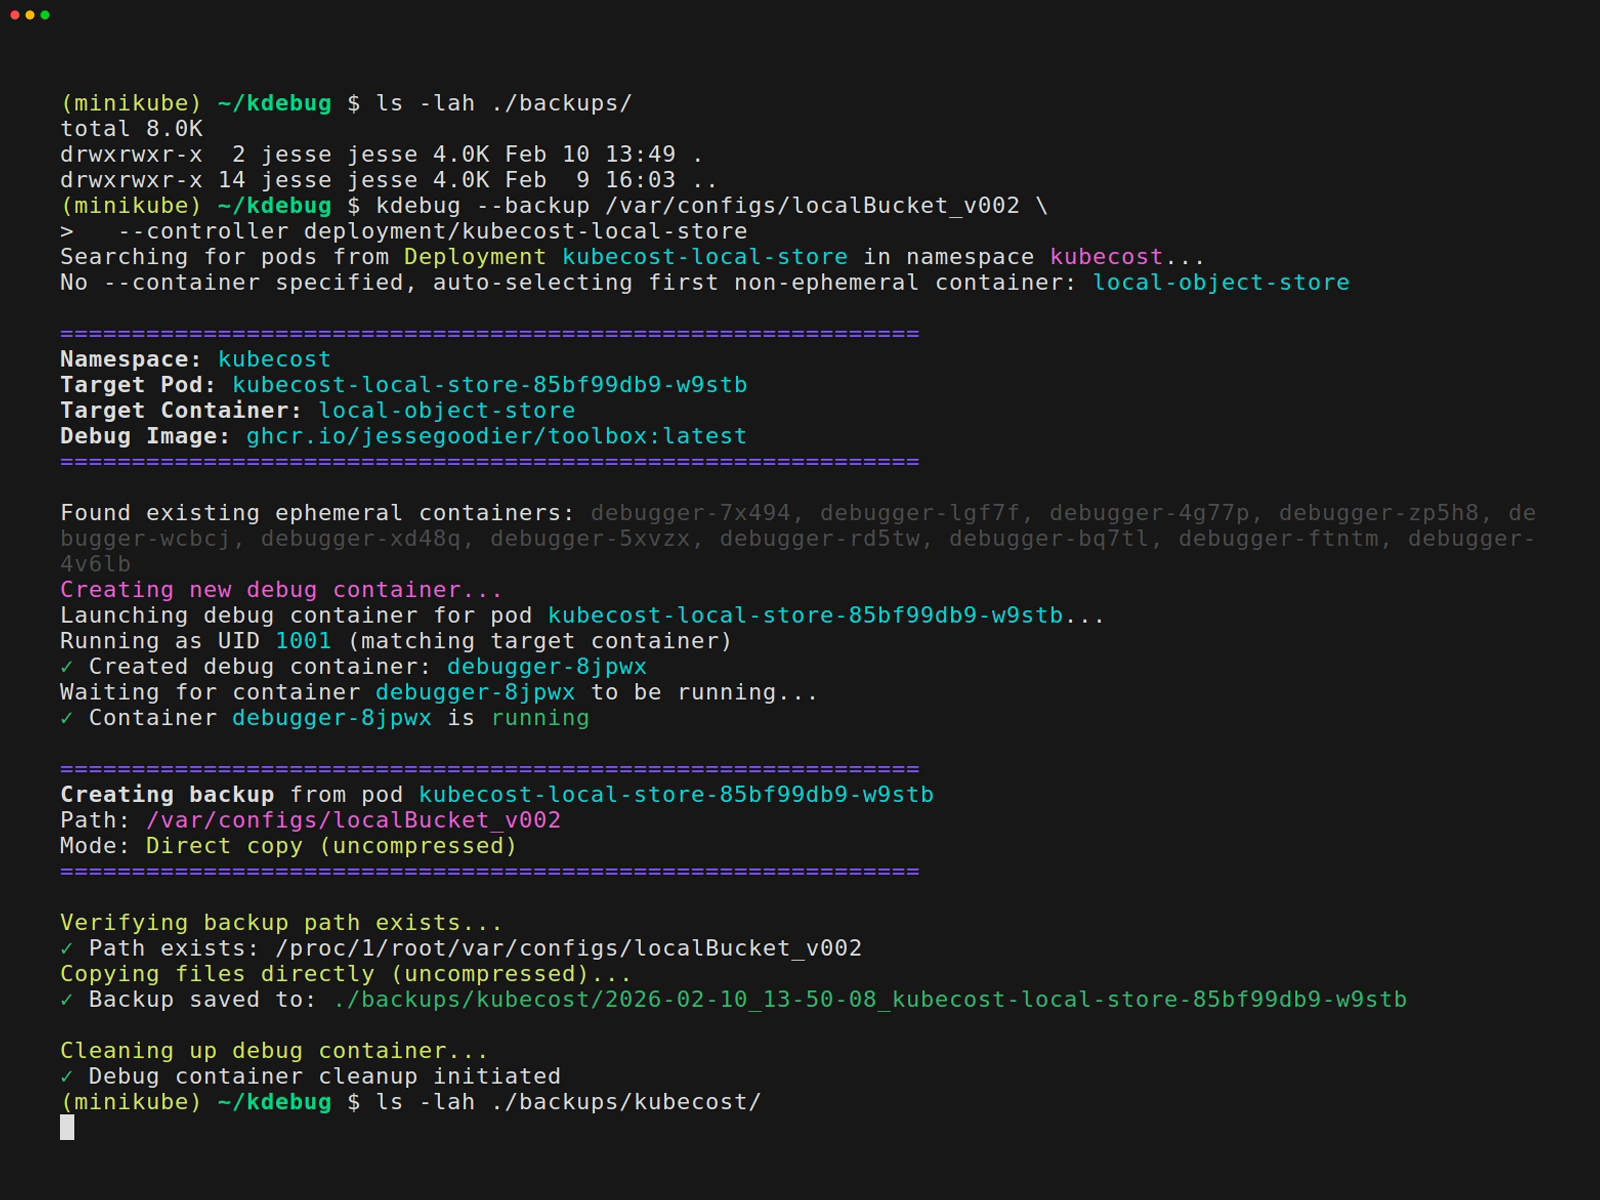
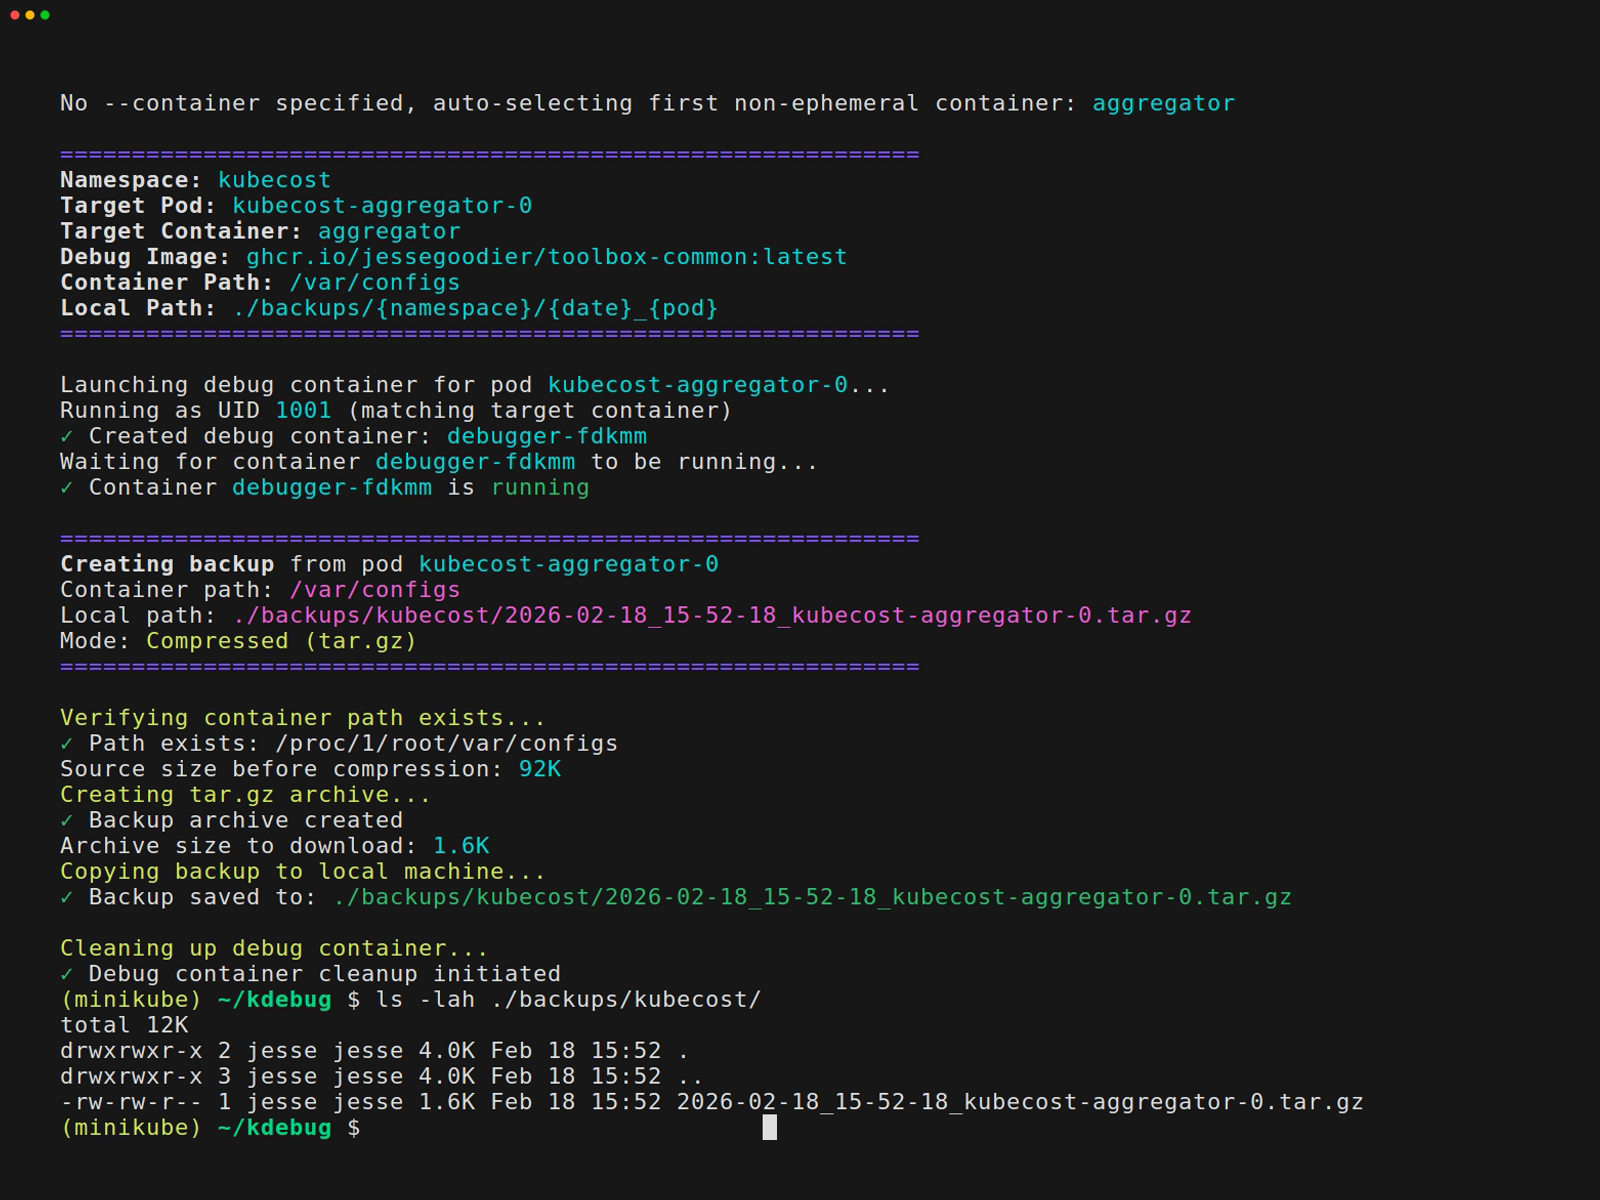
fix args

diff --git a/src/kdebug/cli.py b/src/kdebug/cli.py
@@ -1322,6 +1322,38 @@ Usage:
         "--cd-into", metavar="DIR", default=None, help=argparse.SUPPRESS
     )
 
+    # Shared parent parser so subcommands accept target/options args too.
+    # Without this, `kdebug backup --pod foo` fails because argparse routes
+    # args after the subcommand name to the subparser, which doesn't know
+    # about --pod/--controller/etc.
+    _shared = argparse.ArgumentParser(add_help=False, formatter_class=KdebugHelpFormatter)
+    _shared_target = _shared.add_argument_group("Target Selection")
+    _shared_target.add_argument("--pod", metavar="NAME", help="Pod name for direct selection")
+    _shared_target.add_argument(
+        "--controller",
+        type=parse_controller_arg,
+        metavar="TYPE/NAME",
+        help="Controller as TYPE/NAME (e.g. sts/myapp, deploy/frontend)",
+    )
+    _shared_opts = _shared.add_argument_group("Options")
+    _shared_opts.add_argument(
+        "-n", "--namespace", metavar="NS", help="Kubernetes namespace (default: current context)"
+    )
+    _shared_opts.add_argument("--context", metavar="NAME", help="Kubernetes context to use")
+    _shared_opts.add_argument("--kubeconfig", metavar="PATH", help="Path to kubeconfig file")
+    _shared_opts.add_argument(
+        "--container", metavar="NAME", help="Target container for process namespace sharing"
+    )
+    _shared_opts.add_argument(
+        "--debug-image",
+        metavar="IMAGE",
+        default=None,
+        help="Debug image (default: ghcr.io/jessegoodier/toolbox-common:latest)",
+    )
+    _shared_opts.add_argument(
+        "--as-root", action="store_true", help="Run debug container as root (UID 0)"
+    )
+
     # Subcommands
     subparsers = parser.add_subparsers(dest="command")
 
@@ -1330,6 +1362,7 @@ Usage:
         "debug",
         help="Interactive debug session (default)",
         formatter_class=KdebugHelpFormatter,
+        parents=[_shared],
     )
     debug_parser.add_argument(
         "--cmd",
@@ -1349,6 +1382,7 @@ Usage:
         "backup",
         help="Backup files from pod",
         formatter_class=KdebugHelpFormatter,
+        parents=[_shared],
     )
     backup_parser.add_argument(
         "--container-path",
